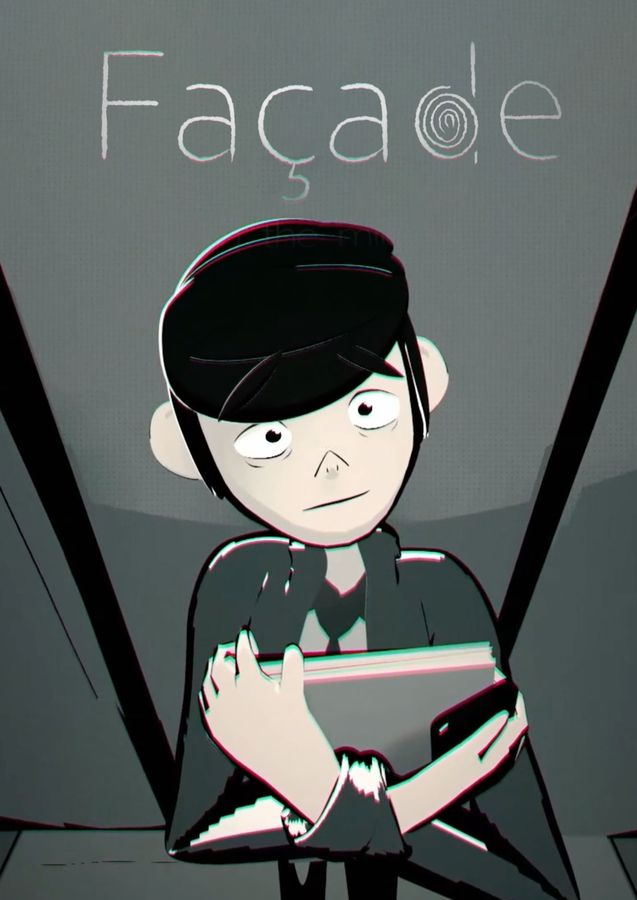
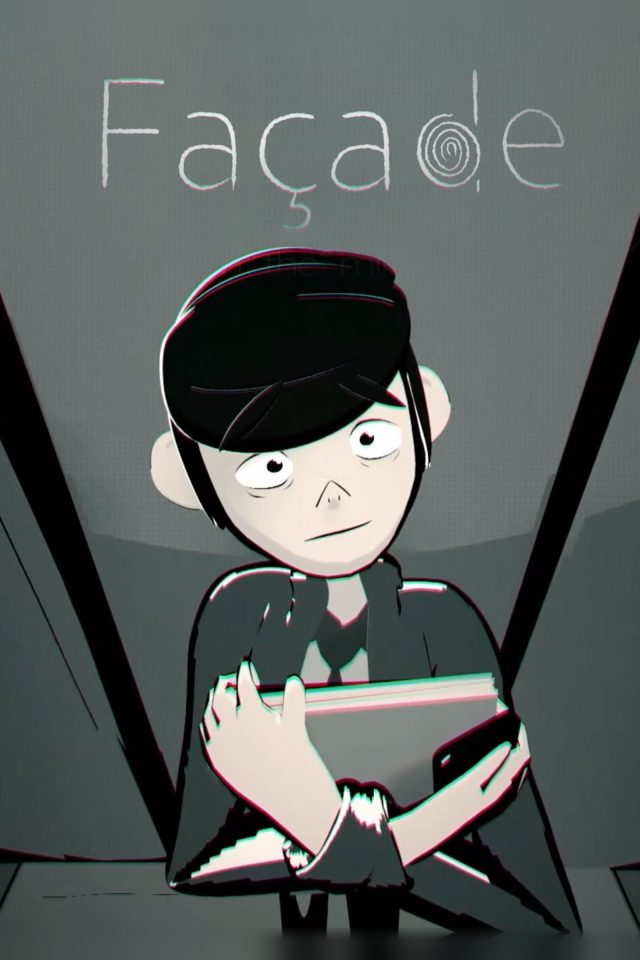
Posters: uniform 2:3, squarer corners
Claude-Session: https://claude.ai/code/session_016ejhHHtzx1tuJYn1oTBXUo

diff --git a/coia/index.html b/coia/index.html
@@ -100,7 +100,7 @@ body::after{content:"";position:fixed;inset:0;pointer-events:none;z-index:50;opa
 .yr .num{position:sticky;left:var(--padX);align-self:start;justify-self:start;padding-right:.12em;white-space:nowrap;font:200 var(--ny)/.8 var(--disp);letter-spacing:-.05em;color:#1b1a19;pointer-events:none;margin-top:-.04em}
 .row{position:relative;z-index:1;display:flex;gap:clamp(16px,2vw,34px);align-items:flex-end;justify-self:start}
 .cv{flex:none;width:calc(var(--ph)*var(--r));display:grid;gap:12px;transform-origin:50% 100%;transform:scale(calc(.9 + .1*var(--f,1)));opacity:calc(.55 + .45*var(--f,1));will-change:transform,opacity}
-.cv .pic{height:var(--ph);border-radius:18px;overflow:hidden;background:#141312}
+.cv .pic{height:var(--ph);border-radius:6px;overflow:hidden;background:#141312}
 .cv .pic img{width:100%;height:100%;object-fit:cover}
 .cv .b{height:64px;overflow:hidden}
 .cv h3{margin:0;font:300 clamp(13px,1.9dvh,17px)/1.2 var(--disp);letter-spacing:-.01em;white-space:nowrap;overflow:hidden;text-overflow:ellipsis}
@@ -290,7 +290,7 @@ input:focus,textarea:focus{border-color:#4a4744}
 {
 const AUDIO={"t01": "t01.mp3", "t02": "t02.mp3", "t03": "t03.mp3", "t04": "t04.mp3", "t05": "t05.mp3", "t06": "t06.mp3", "t07": "t07.mp3", "t08": "t08.mp3", "t09": "t09.mp3", "t10": "t10.mp3", "t11": "t11.mp3", "t12": "t12.mp3"};   // track id -> file in audio/
 const TRACKS=[["t01", "A Home That No Longer Remembers Us", "2:47", "In development"], ["t02", "The Weight of an Invisible Shadow", "4:22", "LeO"], ["t03", "Bodies Out of Focus", "2:56", "LeO"], ["t04", "Bella ci dormi", "2:40", "Jusqu’au prochain souffle"], ["t05", "Breath Out", "2:22", "Façade"], ["t06", "Everything Returns, Slightly Changed", "4:14", "LeO · with Andrea Pagliara"], ["t07", "What Remains Between Us", "4:37", "LeO · with Andrea Pagliara"], ["t08", "Echoes of the True Self", "1:59", "Murdrum"], ["t09", "p e r d e r e", "2:29", "Birthday"], ["t10", "On The Ring", "3:00", "Nino Benvenuti · with Andrea Pagliara"], ["t11", "Alfredo", "1:30", "Alfredo · with Andrea Pagliara"], ["t12", "Vicini Vicini", "1:11", "Sicilia Express · theme by Paolo Buonvino, arr."]];
-const WORKS=[["2026", [["Le Cose Non Dette", "Film", "Gabriele Muccino", "Electronic programming, assistant to composer", "le-cose-non-dette.jpg", 0.7], ["Dio Ride", "Film", "Giovanni Veronesi", "Electronic programming, assistant to composer", "dio-ride.jpg", 0.7], ["Bare", "Film", "Lorna Tucker", "Electronic programming, assistant to composer", "bare.jpg", 0.678], ["Starmaker", "Film", "Joshua David Pivato", "Composer", "starmaker.jpg", 0.667], ["Luce e Ombra", "Dance", "Accademia Nazionale di Danza", "Composer", "luce-e-ombra.jpg", 1], ["Frida", "Opera musical", "", "Arranger, orchestrator", "frida.jpg", 0.8], ["Rat Poison", "Short", "Mina Kaya", "Composer", "rat-poison.jpg", 0.71]]], ["2025", [["Sicilia Express", "Series", "Netflix", "Arranger, electronic programming, assistant to composer", "sicilia-express.jpg", 0.8], ["Nino Benvenuti", "Documentary", "Rai Storia", "Additional music, guitars", "nino-benvenuti.jpg", 0.798], ["Van Gogh Café", "Opera musical", "", "Arranger, orchestrator", "van-gogh-cafe.jpg", 0.707], ["Alfredo", "Short", "Sveva Salimene", "Composer", "alfredo.jpg", 0.701], ["Murdrum", "Short", "Job Gailey", "Composer", "murdrum.jpg", 0.707], ["Jusqu’au prochain souffle", "Short", "", "Composer", "jusqu-au-prochain-souffle.jpg", 0.707]]], ["2024", [["Il Vajont di Tutti", "Opera musical", "", "Arranger, orchestrator", "il-vajont-di-tutti.jpg", 0.707], ["Cicatrix", "Short", "U. Güven, T. D. Ipek, D. S. Bilgiç", "Composer", "cicatrix.jpg", 0.675], ["The Chitin Hunter", "Short", "Pratham Mudbidri", "Composer", "the-chitin-hunter.jpg", 0.705]]], ["2023", [["Maintenance", "Short", "Pablo Aguilar", "Composer", "maintenance.jpg", 0.707], ["Birthday", "Short", "Imogen Walker", "Composer", "birthday.jpg", 0.707], ["Façade", "Short", "Pratham Mudbidri", "Composer", "facade.jpg", 0.707], ["Bête Noir", "Short", "Jeremy Brondoni", "Composer", "bete-noir.jpg", 0.707], ["Contractors", "Short", "Michael Payne", "Composer", "contractors.jpg", 1]]], ["2022", [["Burn To Be Reborn", "Short", "Irene Loreti, Carla Mariani", "Composer", "burn-to-be-reborn.jpg", 1]]]];
+const WORKS=[["2026", [["Le Cose Non Dette", "Film", "Gabriele Muccino", "Electronic programming, assistant to composer", "le-cose-non-dette.jpg", 0.667], ["Dio Ride", "Film", "Giovanni Veronesi", "Electronic programming, assistant to composer", "dio-ride.jpg", 0.667], ["Bare", "Film", "Lorna Tucker", "Electronic programming, assistant to composer", "bare.jpg", 0.667], ["Starmaker", "Film", "Joshua David Pivato", "Composer", "starmaker.jpg", 0.667], ["Luce e Ombra", "Dance", "Accademia Nazionale di Danza", "Composer", "luce-e-ombra.jpg", 0.667], ["Frida", "Opera musical", "", "Arranger, orchestrator", "frida.jpg", 0.667], ["Rat Poison", "Short", "Mina Kaya", "Composer", "rat-poison.jpg", 0.667]]], ["2025", [["Sicilia Express", "Series", "Netflix", "Arranger, electronic programming, assistant to composer", "sicilia-express.jpg", 0.667], ["Nino Benvenuti", "Documentary", "Rai Storia", "Additional music, guitars", "nino-benvenuti.jpg", 0.667], ["Van Gogh Café", "Opera musical", "", "Arranger, orchestrator", "van-gogh-cafe.jpg", 0.667], ["Alfredo", "Short", "Sveva Salimene", "Composer", "alfredo.jpg", 0.667], ["Murdrum", "Short", "Job Gailey", "Composer", "murdrum.jpg", 0.667], ["Jusqu’au prochain souffle", "Short", "", "Composer", "jusqu-au-prochain-souffle.jpg", 0.667]]], ["2024", [["Il Vajont di Tutti", "Opera musical", "", "Arranger, orchestrator", "il-vajont-di-tutti.jpg", 0.667], ["Cicatrix", "Short", "U. Güven, T. D. Ipek, D. S. Bilgiç", "Composer", "cicatrix.jpg", 0.667], ["The Chitin Hunter", "Short", "Pratham Mudbidri", "Composer", "the-chitin-hunter.jpg", 0.667]]], ["2023", [["Maintenance", "Short", "Pablo Aguilar", "Composer", "maintenance.jpg", 0.667], ["Birthday", "Short", "Imogen Walker", "Composer", "birthday.jpg", 0.667], ["Façade", "Short", "Pratham Mudbidri", "Composer", "facade.jpg", 0.667], ["Bête Noir", "Short", "Jeremy Brondoni", "Composer", "bete-noir.jpg", 0.667], ["Contractors", "Short", "Michael Payne", "Composer", "contractors.jpg", 0.667]]], ["2022", [["Burn To Be Reborn", "Short", "Irene Loreti, Carla Mariani", "Composer", "burn-to-be-reborn.jpg", 0.667]]]];
 const VIDEOS=[["ab0v_lUS5qM", "Tape Explorations"], ["puJDctlBKIg", "Speculative Memories"], ["xh6746JX6b8", "FUGUE/TRAMPOLINE"], ["PxWVAe1Pt_Q", "A Night Odyssey (Making Of)"]];
 const esc=s=>String(s).replace(/[&<>"']/g,c=>({'&':'&amp;','<':'&lt;','>':'&gt;','"':'&quot;',"'":'&#39;'}[c]));
 const still=matchMedia('(prefers-reduced-motion:reduce)');
